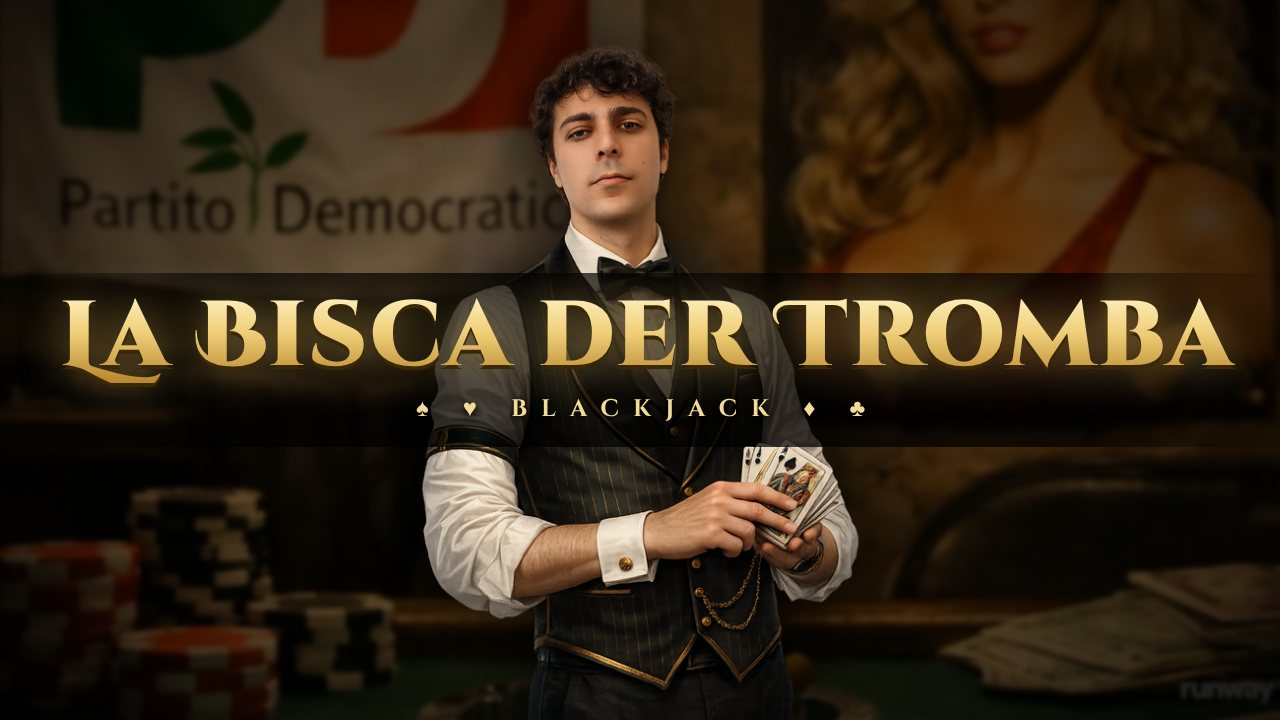
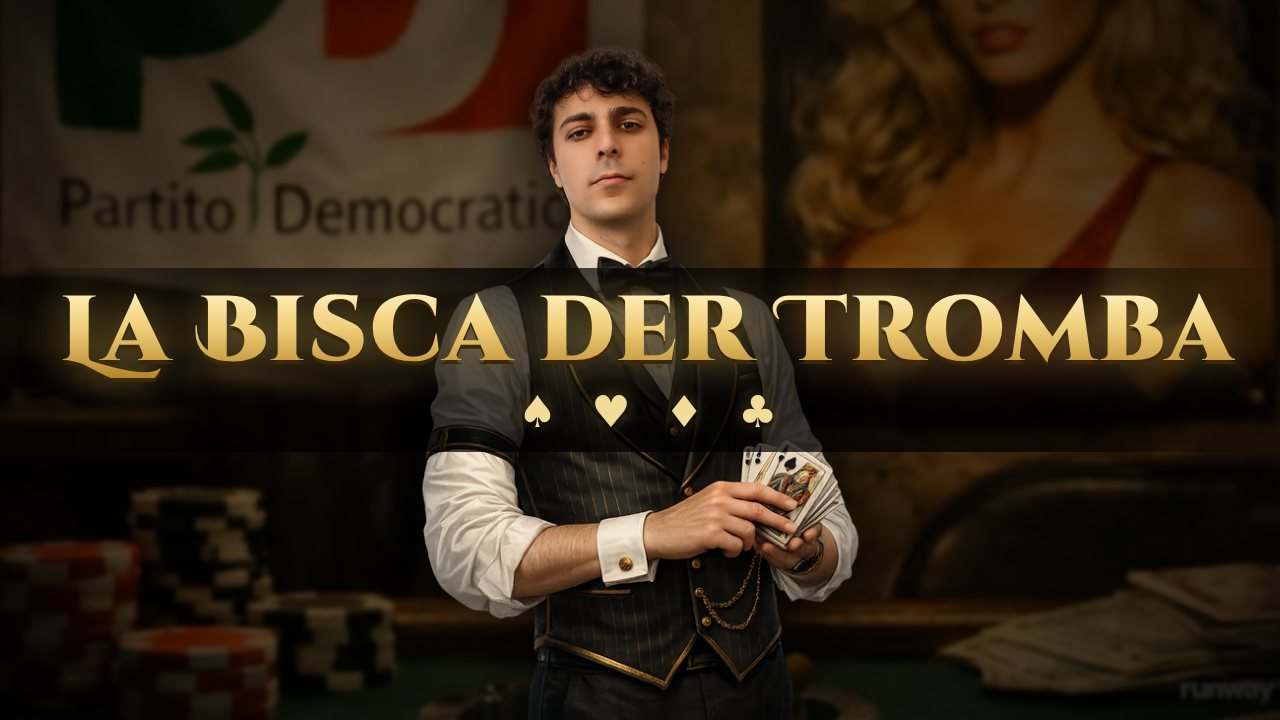
Roulette: pulsanti Pieno, Cavallo e Quartina; copertina senza la scritta Blackjack
- Su telefono i bordi tra i numeri erano troppo piccoli: ora si sceglie il
  tipo di puntata e si toccano i numeri (due vicini per il cavallo, due
  angoli opposti per la quartina), con i numeri validi evidenziati.
  Tasti P, C, Q. Su touch le zone sui bordi sono spente.
- Copertina in home: sotto il titolo restano solo i semi.

Claude-Session: https://claude.ai/code/session_017AfdJfywLCi53rHGeP2f3c

diff --git a/giochi/bisca-del-tromba/roulette.js b/giochi/bisca-del-tromba/roulette.js
@@ -53,6 +53,8 @@ let rFiche = 5;           // fiche selezionata
 let rGirando = false;
 let rStoria = [];         // ultimi numeri usciti
 let rUltimo = null;
+let rModo = 'pieno';      // 'pieno' | 'cavallo' | 'quartina': cosa fa un tocco su un numero
+let rPrimo = null;        // primo numero scelto per cavallo o quartina
 
 function rTotale(p) { return Object.values(p || rPuntate).reduce((a, b) => a + b, 0); }
 function rEuro(v) { return '€' + Number(v).toLocaleString('it-IT'); }
@@ -108,7 +110,10 @@ function rCostruisciTavolo() {
 
   t.addEventListener('click', e => {
     const c = e.target.closest('[data-bet]');
-    if (c) rPunta(c.dataset.bet);
+    if (!c) return;
+    const k = c.dataset.bet;
+    if (rModo !== 'pieno' && /^n\d+$/.test(k)) rTocca(+k.slice(1));
+    else rPunta(k);
   });
   t.addEventListener('contextmenu', e => { // clic destro: togli una fiche da quella casella
     const c = e.target.closest('[data-bet]');
@@ -116,6 +121,55 @@ function rCostruisciTavolo() {
     e.preventDefault();
     rTogliDa(c.dataset.bet);
   });
+}
+
+/* ── MODI: pieno, cavallo, quartina (comodi soprattutto su telefono) ──
+   Cavallo: tocchi due numeri vicini. Quartina: tocchi due numeri dello stesso
+   quadrato di quattro (meglio in diagonale). Dopo il primo tocco si illuminano
+   i numeri che puoi scegliere come secondo. */
+function rCercaPuntata(a, b) {
+  const tipo = rModo === 'cavallo' ? 's' : 'q';
+  const trovate = Object.keys(R_PUNTATE).filter(k => k[0] === tipo &&
+    R_PUNTATE[k].numeri.includes(a) && R_PUNTATE[k].numeri.includes(b));
+  return trovate.length === 1 ? trovate[0] : null;
+}
+function rScegliModo(m) {
+  if (rGirando) return;
+  rModo = m;
+  rPrimo = null;
+  document.querySelectorAll('#r-modi button').forEach(b => {
+    b.classList.toggle('attivo', b.dataset.modo === m);
+    b.setAttribute('aria-pressed', b.dataset.modo === m);
+  });
+  document.getElementById('r-board').dataset.modo = m;
+  rSegnaScelta();
+  rMsg({ pieno: 'Tocca un numero per puntarci sopra.',
+         cavallo: 'Cavallo: tocca due numeri vicini (paga ×18).',
+         quartina: 'Quartina: tocca due angoli opposti di un quadrato di quattro numeri (paga ×9).' }[m]);
+}
+function rSegnaScelta() {
+  document.querySelectorAll('#r-board .r-cell').forEach(c => {
+    const k = c.dataset.bet;
+    if (!/^n\d+$/.test(k)) return;
+    const n = +k.slice(1);
+    c.classList.toggle('scelto', n === rPrimo);
+    c.classList.toggle('bersaglio', rPrimo !== null && n !== rPrimo && !!rCercaPuntata(rPrimo, n));
+  });
+}
+function rTocca(n) {
+  if (rGirando) return;
+  if (rPrimo === null || n === rPrimo) {
+    rPrimo = rPrimo === n ? null : n;
+    rSegnaScelta();
+    if (rPrimo !== null) rMsg('Ora tocca ' + (rModo === 'cavallo' ? 'il numero accanto' : 'l\'angolo opposto') + ' (quelli illuminati).');
+    return;
+  }
+  const k = rCercaPuntata(rPrimo, n);
+  if (!k) { rPrimo = n; rSegnaScelta(); return; } // non è vicino: ricomincia da questo numero
+  rPrimo = null;
+  rSegnaScelta();
+  rPunta(k);
+  if (rPuntate[k]) rMsg('Puntato su ' + R_PUNTATE[k].nome + '.');
 }
 
 function rDisegnaPuntate() {
@@ -342,6 +396,7 @@ function rGira() {
   if (!rPreparaRuota()) return;
   startMusic();
   rGirando = true;
+  rPrimo = null; rSegnaScelta();
   balance -= tot;
   rUltime = Object.assign({}, rPuntate);
   rTogliEsito();
@@ -486,6 +541,8 @@ window.addEventListener('resize', () => {
 function rTasti(e) {
   const k = e.key.toLowerCase();
   if (/^[1-6]$/.test(e.key)) { e.preventDefault(); rScegliFiche(CHIP_VALUES[+e.key - 1]); return; }
+  const modi = { p: 'pieno', c: 'cavallo', q: 'quartina' };
+  if (modi[k]) { e.preventDefault(); rScegliModo(modi[k]); return; }
   const azioni = { enter: rGira, ' ': rGira, escape: rAnnulla, backspace: rAnnullaUltima, z: rAnnullaUltima, r: rRipeti, x: rRaddoppia };
   if (azioni[k]) { e.preventDefault(); azioni[k](); }
 }

diff --git a/giochi/bisca-del-tromba/index.html b/giochi/bisca-del-tromba/index.html
@@ -505,7 +505,12 @@
       <div id="r-side">
         <div id="r-head"><img id="r-croupier" src="assets/croupier-init.png" alt="Il Tromba"><div id="r-msg" aria-live="polite"></div></div>
         <div id="r-storia" aria-label="Ultimi numeri usciti"></div>
-        <div id="r-board" role="group" aria-label="Tavolo delle puntate"></div>
+        <div id="r-modi" role="group" aria-label="Tipo di puntata sui numeri">
+          <button class="bet-tool attivo" data-modo="pieno" aria-pressed="true" onclick="rScegliModo('pieno')" title="Tasto P: un numero solo, paga ×36">Pieno <small>×36</small></button>
+          <button class="bet-tool" data-modo="cavallo" aria-pressed="false" onclick="rScegliModo('cavallo')" title="Tasto C: due numeri vicini, paga ×18">Cavallo <small>×18</small></button>
+          <button class="bet-tool" data-modo="quartina" aria-pressed="false" onclick="rScegliModo('quartina')" title="Tasto Q: quattro numeri, paga ×9">Quartina <small>×9</small></button>
+        </div>
+        <div id="r-board" data-modo="pieno" role="group" aria-label="Tavolo delle puntate"></div>
         <div id="r-pagamenti">Vincite (posta compresa): pieno ×36 · cavallo ×18 · quartina ×9 · dozzina e colonna ×3 · rosso/nero, pari/dispari, 1-18/19-36 ×2<br>Clicca sul bordo tra due numeri per il cavallo, sull'incrocio di quattro per la quartina · clic destro toglie una fiche</div>
       </div>
     </div>
@@ -529,7 +534,7 @@
         <button class="bet-tool" id="r-double" onclick="rRaddoppia()" title="Tasto X">×2</button>
         <button class="btn primary" id="r-spin" onclick="rGira()" disabled title="Invio">Gira<kbd>Invio</kbd></button>
       </div>
-      <div id="r-keys">Tasti: 1-6 fiche · clic sul tavolo per puntare · Z togli · R ripeti · X ×2 · Esc annulla · Invio gira</div>
+      <div id="r-keys">Tasti: 1-6 fiche · P pieno · C cavallo · Q quartina · Z togli · R ripeti · X ×2 · Esc annulla · Invio gira</div>
     </footer>
   </section>
 </div>

diff --git a/giochi/bisca-del-tromba/roulette.css b/giochi/bisca-del-tromba/roulette.css
@@ -162,3 +162,17 @@ button.tavolo:hover,button.tavolo:focus-visible{transform:translateY(-6px);borde
 .r-hot .r-fiche{right:auto;bottom:auto;left:50%;top:50%;transform:translate(-50%,-50%);animation:none;}
 .r-hot.vince{background:rgba(243,220,154,.6);box-shadow:0 0 12px rgba(243,220,154,.9);}
 #r-board:not(.bloccato) .r-cell:has(.r-hot:hover){box-shadow:none;filter:none;}
+
+/* pulsanti Pieno / Cavallo / Quartina */
+#r-modi{display:flex;gap:6px;justify-content:center;width:100%;}
+#r-modi .bet-tool{flex:0 1 150px;min-height:36px;padding:0 12px;}
+#r-modi .bet-tool small{opacity:.65;font-size:.72em;margin-left:4px;}
+#r-modi .bet-tool.attivo{background:linear-gradient(180deg,#f0cf7a,#b88a2e);color:#1a1205;border-color:#f7e2a6;}
+.r-cell.scelto{box-shadow:0 0 0 3px var(--gold-light),0 0 16px rgba(243,220,154,.9);z-index:2;}
+.r-cell.bersaglio{outline:2px dashed var(--gold-light);outline-offset:-4px;animation:lampeggia 1.1s ease infinite;}
+/* in modalità cavallo/quartina i tocchi vanno sui numeri, non sui bordi */
+#r-board:not([data-modo="pieno"]) .r-hot{pointer-events:none;}
+/* sui touch i bordi sono troppo piccoli: si usano i pulsanti sopra il tavolo */
+@media (hover:none){ .r-hot{pointer-events:none;} }
+@media (max-width:640px){ #r-modi .bet-tool{flex:1 1 0;min-height:34px;padding:0 6px;font-size:.72rem;letter-spacing:.5px;} }
+@media (max-height:480px){ #r-modi .bet-tool{min-height:28px;} }

diff --git a/contenuti.js b/contenuti.js
@@ -39,7 +39,7 @@ const CONTENUTI = {
       titolo: 'La Bisca der Tromba',
       descrizione: 'Godi popolo',
       link: 'giochi/bisca-del-tromba/',
-      immagine: 'giochi/bisca-del-tromba/assets/copertina.jpg',
+      immagine: 'giochi/bisca-del-tromba/assets/copertina.jpg?v=2',
       tag: ['Bighelloni', 'Dipendenza', 'Salute'],
       inEvidenza: true,
     },
